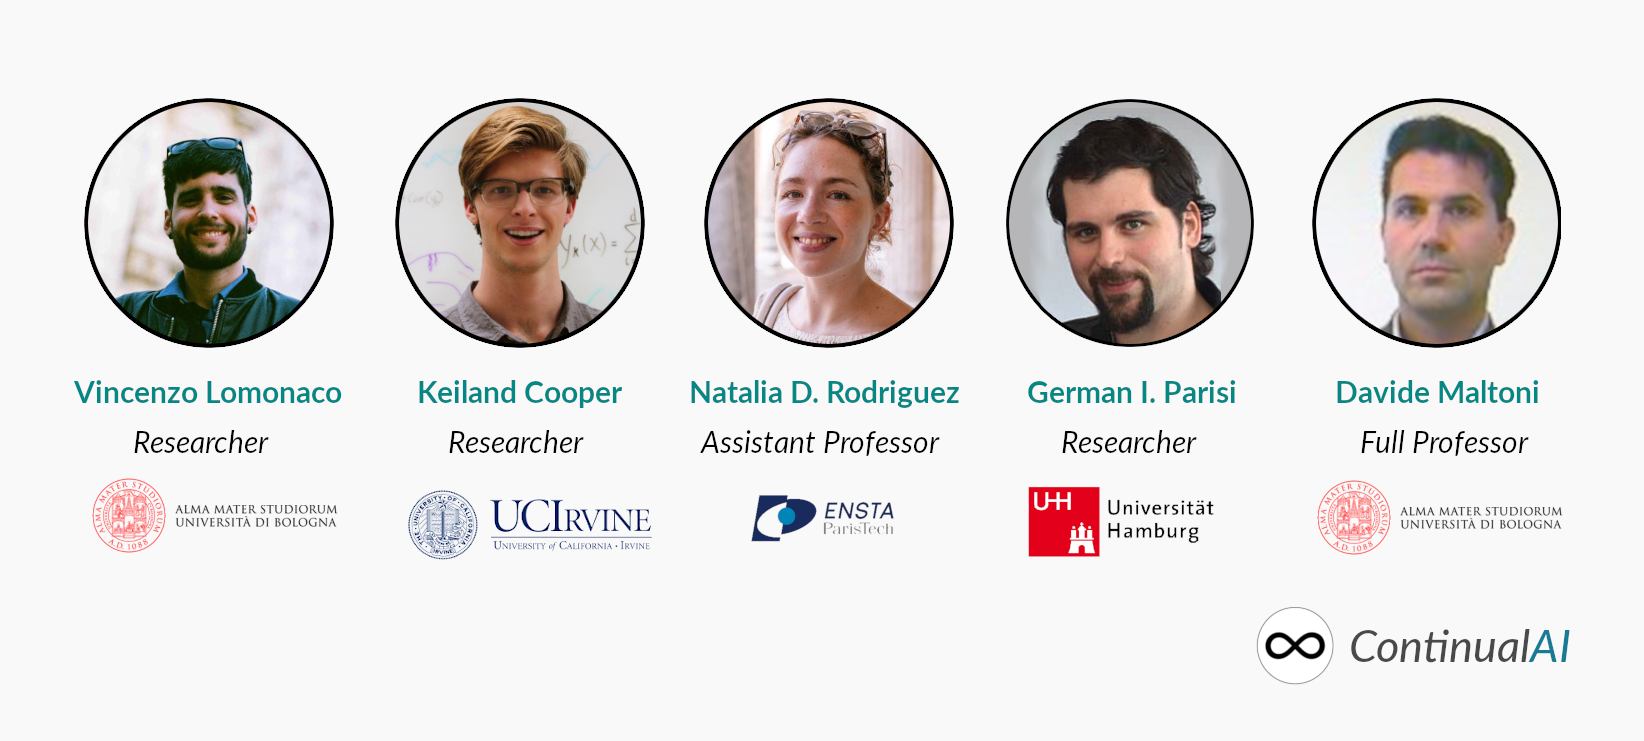
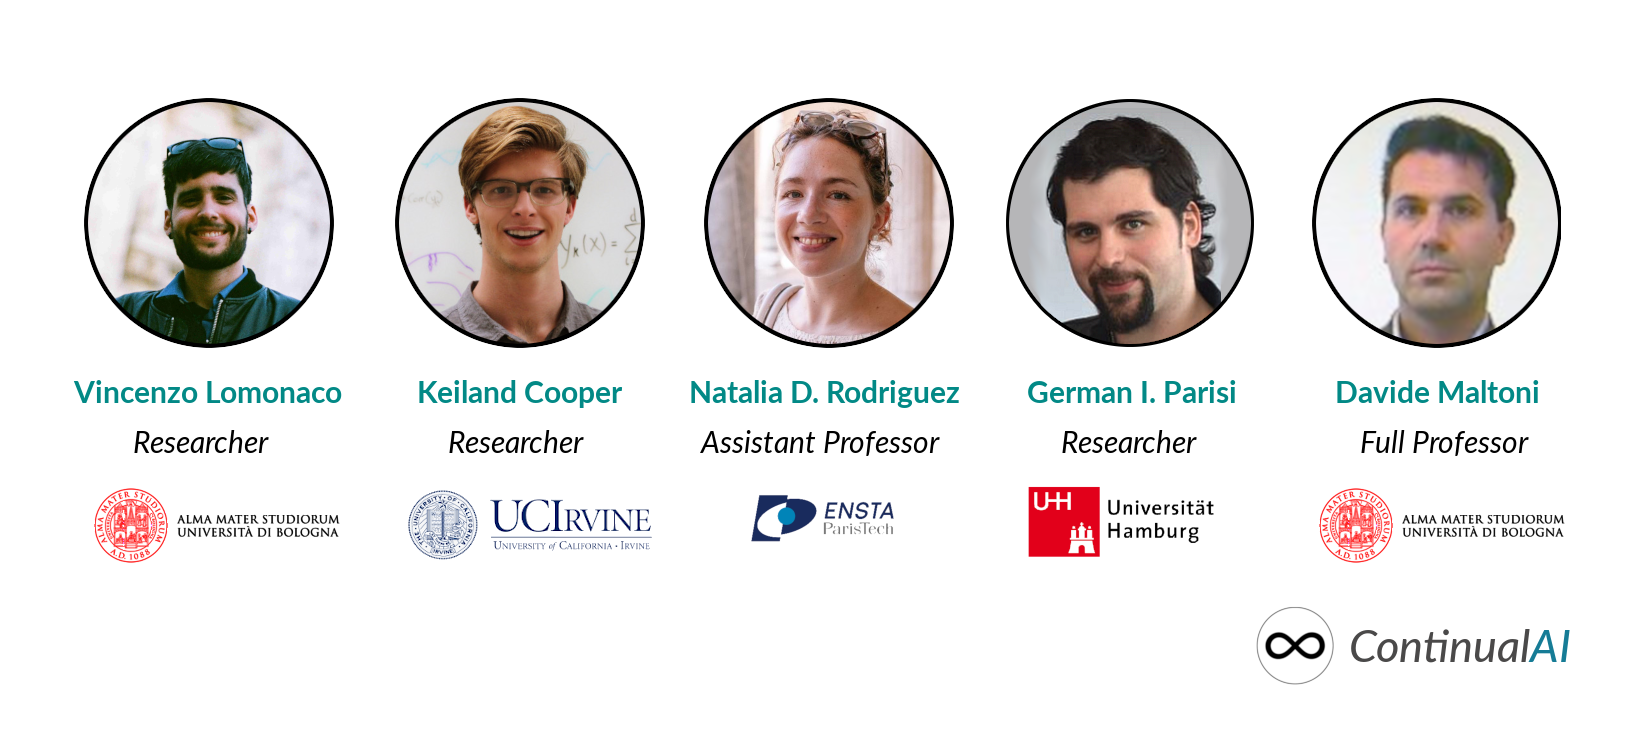
newsletter, meetup links added, advisors updated

diff --git a/news.md b/news.md
@@ -12,8 +12,9 @@ Here we list the most important news about **ContinualAI**. However, we recommen
 		<a href="#newsletter">2. Monthly Newsletter</a><br>
 		<a href="#meetup">3. Monthly Online Meetups</a><br>
 		<a href="#rg">4. Weekly Reading Group</a><br>
-		<a href="#medium">5. Medium Publication</a><br>
-		<a href="#mailinglist">6. Mailing List</a><br>
+		<a href="#coffee">5. Virtual Coffe Program</a><br>
+		<a href="#medium">6. Medium Publication</a><br>
+		<a href="#mailinglist">7. Mailing List</a><br>
 	</p>
 </div>
 
@@ -39,6 +40,7 @@ The *ContinualAI Newsletter* will keep you updated on events & activities of the
 
 - <a href="https://mailchi.mp/aef8eecf498f/continualai-newsletter-feb-2020" target="_blank">February 2020</a>
 - [March 2020](https://mailchi.mp/3be16987d196/continualai-newsletter-feb-4000921?e=9eb799a20d)
+- [April 2020](http://eepurl.com/g0-UG1)
 
 <!-- Begin Mailchimp Signup Form -->
 <link href="//cdn-images.mailchimp.com/embedcode/classic-10_7.css" rel="stylesheet" type="text/css">
@@ -74,11 +76,19 @@ The *ContinualAI Online Meetups* are 90 minutes discussions about a particular C
 
 - <a href="https://www.youtube.com/watch?v=TeYcCuMQ-B0" target="_blank">[February 2020] "Generative Models for Continual Learning"</a>
 - <a href="https://youtu.be/LPYBy4VHRuk" target="_blank">[March 2020] "Neuroscience-Inspired Continual Learning"</a>
+- <a href="https://www.youtube.com/watch?v=GteGII2e7ro" target="_blank">[April 2020] "Real-World Applications of Continual Learning"</a>
 
 <a name="rg"></a>
 <h3 id="rg" style="margin-bottom: 30px;">Reading Group</h3>
 
 The *ContinualAI Reading Group* is hosted every Friday in collaboration with [MILA](https://mila.quebec/en/) and it is based on roughly 60 minutes discussion about a particular Continual Learning paper. Occasionally, a speaker is invited to explain his work. Join our reading group [on slack](https://join.slack.com/t/continualai/shared_invite/enQtNjQxNDYwMzkxNzk0LTBhYjg2MjM0YTM2OWRkNDYzOGE0ZTIzNDQ0ZGMzNDE3ZGUxNTZmNmM1YzJiYzgwMTkyZDQxYTlkMTI3NzZkNjU)! It will be the occasion to talk with other researchers of this amazing field!
+
+<a name="coffee"></a>
+<h3 id="coffee" style="margin-bottom: 30px;">Virtual Coffe Program</h3>
+
+As we surpassed the ContinualAI 800+ members, we thought it would be nice to know each other a bit better! So we are excited to launch the ContinualAI Virtual-Coffee Program! 
+
+How does it work? You enter the [#virtual-coffee channel on slack](https://join.slack.com/t/continualai/shared_invite/enQtNjQxNDYwMzkxNzk0LTBhYjg2MjM0YTM2OWRkNDYzOGE0ZTIzNDQ0ZGMzNDE3ZGUxNTZmNmM1YzJiYzgwMTkyZDQxYTlkMTI3NzZkNjU), every two weeks a bot will randomly pair you with another continual learner with whom you can make a 1-1 online meeting to grab a virtual coffee together. We hope this will help you create valuable connections to strengthen this amazing field and work better together!
 
 <a name="medium"></a>
 <h3 id="medium" style="margin-bottom: 30px;">Medium Publication</h3>

diff --git a/about_us.md b/about_us.md
@@ -41,7 +41,7 @@ Join us today [on slack](https://join.slack.com/t/continualai/shared_invite/enQt
  <a name="Advisors"></a>
 <h3 id="advisors" style="margin-bottom:30px">Advisors</h3>
 
-<div style="text-align:center; margin-bottom:20px; margin-top:0px"><img style="width:100%" src ='/{{ site.baseurl }}images/contai-advisors.png'/></div>
+<div style="text-align:center; margin-bottom:20px; margin-top:0px"><img style="width:90%" src ='/{{ site.baseurl }}images/contai-advisors.png'/></div>
 
  - [Marc Pickett](https://ai.google/research/people/MarcPickett) &bull; Research Scientist @ Google AI
  - [Eugenio Culurciello](https://e-lab.github.io/html/contact-eugenio-culurciello.html) &bull; Professor @ Purdue University
@@ -49,6 +49,7 @@ Join us today [on slack](https://join.slack.com/t/continualai/shared_invite/enQt
  - [Razvan Pascanu](https://sites.google.com/view/razp) &bull; Research Scientist @ Google DeepMind
  - [Massimiliano Versace](http://maxversace.com/) &bull; CEO @ Neurala
  - [Subutai Ahmad](http://www.subutai.com/) &bull; VP Research @ Numenta
+ - [Itamar Arel](https://www.linkedin.com/in/itamar-arel-061b08/) &bull; VP of McD Technology Labs
 
 <!--
 <a name="top-contributors"></a>
